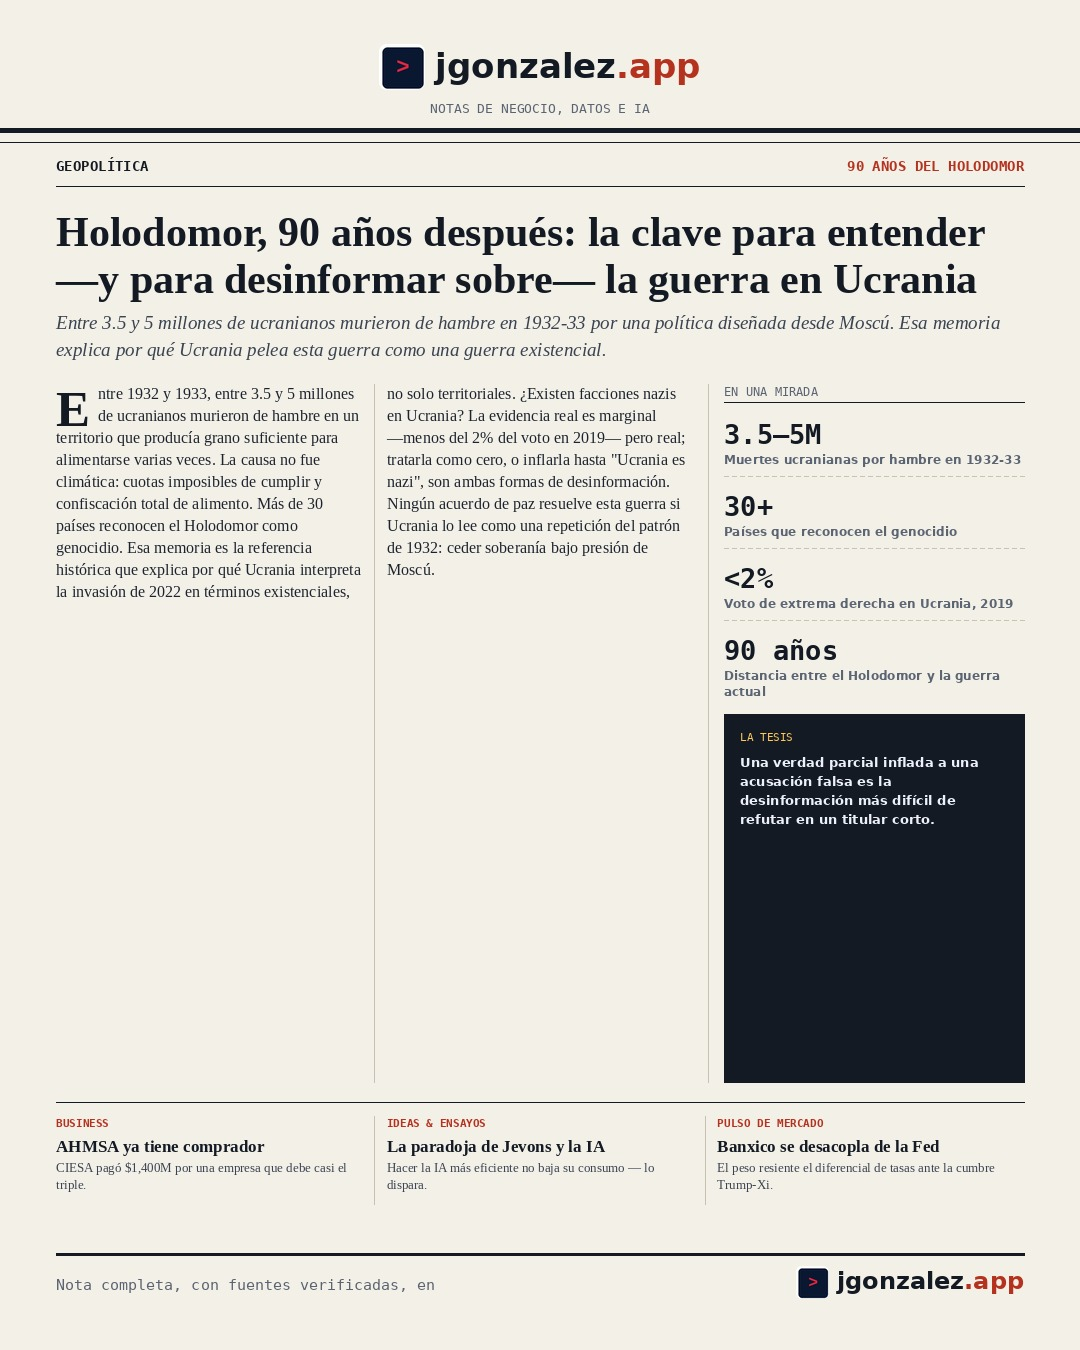
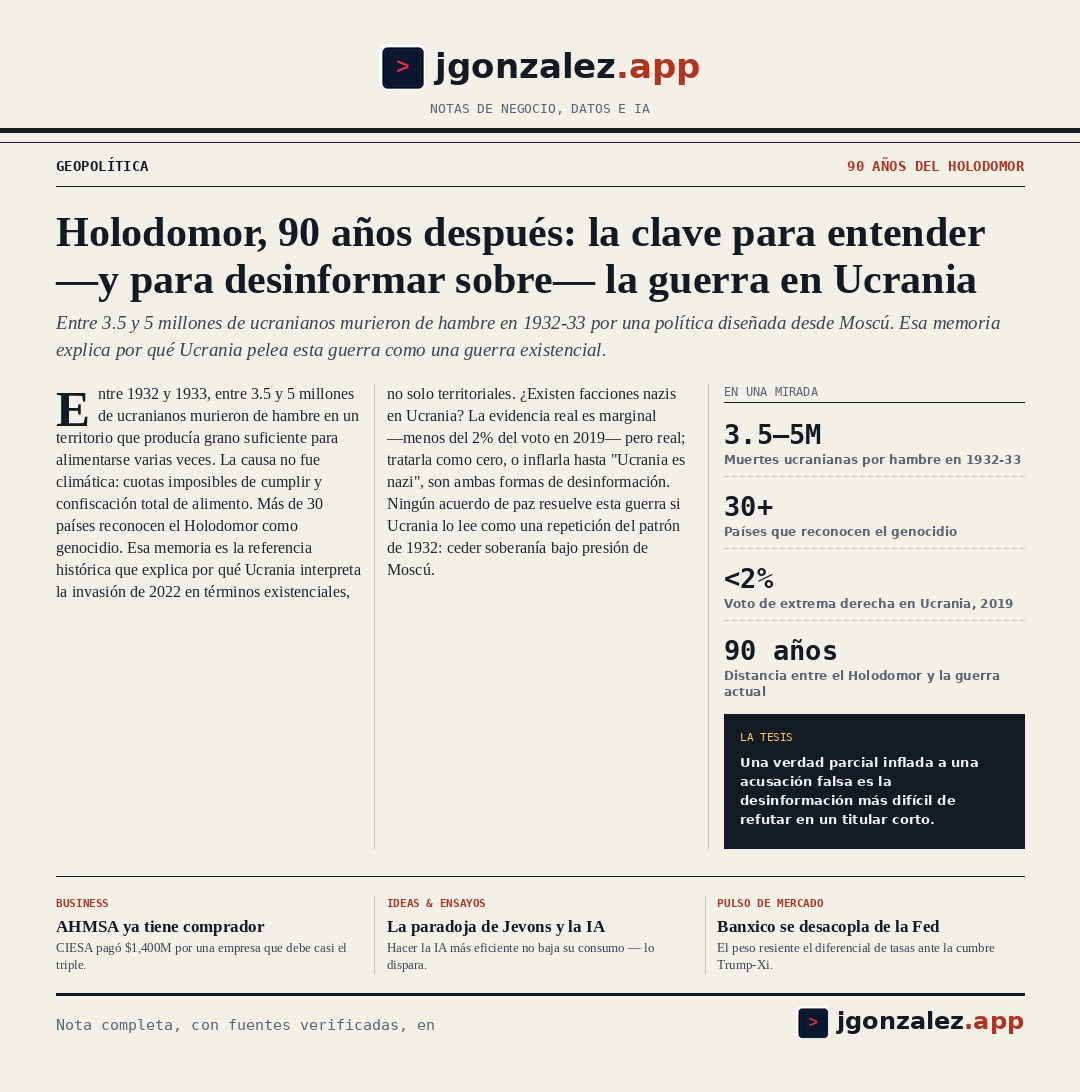
Ajusta la tarjeta social para recortarse al contenido real (sin espacio en blanco de más)
Claude-Session: https://claude.ai/code/session_01Hy1irsgxb8SxM6AaqhiYV5

Changed region(s): [[0.0, 0.0311, 1.0, 0.9652]]

diff --git a/scripts/social_card.py b/scripts/social_card.py
@@ -2,9 +2,8 @@
 """
 Genera la tarjeta social (Facebook/Instagram) de una nota: réplica del
 diseño de "portada de diario" de dos columnas + sidebar de datos, con el
-logo de jgonzalez.app. Reemplaza la plantilla anterior (portada + resumen
-en el caption): ahora la imagen lleva toda la información y el caption
-del post solo trae el link.
+logo de jgonzalez.app. El alto de la imagen se ajusta al contenido real
+(nunca deja espacio en blanco de más al final).
 
 Uso (todo por stdin, JSON, para no pelear con el escapado de shell):
   echo '{...}' | python3 scripts/social_card.py --out ruta.jpg
@@ -25,7 +24,8 @@ import sys
 import json
 from PIL import Image, ImageDraw, ImageFont
 
-ANCHO, ALTO = 1080, 1350
+ANCHO = 1080
+ALTO_MAX = 2000  # lienzo de trabajo; se recorta al contenido real al final
 CREMA = (243, 240, 232)
 TINTA = (20, 26, 36)
 GRIS = (91, 100, 114)
@@ -61,7 +61,6 @@ def envolver(draw, texto, fuente, ancho_max):
 
 
 def dibujar_logo(draw, img, x, y, escala=1.0):
-    """Dibuja icono + 'jgonzalez.app' con la punta izquierda en (x,y). Regresa el ancho total."""
     tam_icono = int(46 * escala)
     tam_fuente = int(34 * escala)
     f_word = ImageFont.truetype(F_SANS_BOLD, tam_fuente)
@@ -97,7 +96,7 @@ def generar(datos_nota, salida):
     tesis = datos_nota.get("tesis", "")
     otras = datos_nota.get("otras", [])[:3]
 
-    img = Image.new("RGB", (ANCHO, ALTO), CREMA)
+    img = Image.new("RGB", (ANCHO, ALTO_MAX), CREMA)
     draw = ImageDraw.Draw(img)
     margen = 56
 
@@ -179,8 +178,6 @@ def generar(datos_nota, salida):
                 draw.line((sidebar_x + dx, sy, sidebar_x + dx + 4, sy), fill=LINEA, width=1)
             sy += 14
 
-    # tesis: caja oscura que llena el resto del sidebar hasta donde termine el cuerpo (calculado luego)
-
     # ---- cuerpo en dos sub-columnas con letra capital ----
     f_cuerpo = ImageFont.truetype(F_SERIF_REG, 16)
     interlinea = 22
@@ -190,12 +187,9 @@ def generar(datos_nota, salida):
     resto_primera = palabras[0][1:] if palabras else ""
     texto_sin_capital = " ".join([resto_primera] + palabras[1:]) if palabras else ""
 
-    # letra capital: ocupa ~2 líneas de alto
     f_cap = ImageFont.truetype(F_SERIF_BLACK, int(interlinea * 2.35))
     cap_w = draw.textlength(primera_letra, font=f_cap) + 8
 
-    # arma todas las líneas del cuerpo respetando el hueco de la letra capital
-    # en las primeras 2 líneas de la primera sub-columna.
     def envolver_con_hueco(texto, ancho_normal, ancho_reducido, n_reducidas):
         palabras = texto.split()
         lineas, actual = [], ""
@@ -214,19 +208,13 @@ def generar(datos_nota, salida):
             lineas.append(actual)
         return lineas
 
-    pie_franja_y = ALTO - 130
-    otras_h = 118 if otras else 0
-    limite_cuerpo_y = pie_franja_y - otras_h - 20
-
     todas_lineas = envolver_con_hueco(texto_sin_capital, sub_w, sub_w - cap_w, 2)
-    # reparte en dos sub-columnas por mitad de líneas (como column-count:2),
-    # nunca más de lo que cabe verticalmente antes de la franja de abajo.
-    max_por_col = max(6, int((limite_cuerpo_y - body_top) / interlinea))
-    mitad = min(-(-len(todas_lineas) // 2), max_por_col)  # ceil, acotado
+    # reparte en dos sub-columnas por mitad de líneas (como column-count:2) —
+    # sin límite artificial: el lienzo se recorta al contenido real al final.
+    mitad = -(-len(todas_lineas) // 2)  # ceil
     colA = todas_lineas[:mitad]
-    colB = todas_lineas[mitad:mitad + max_por_col]
+    colB = todas_lineas[mitad:]
 
-    # columna A, con letra capital sobrepuesta en la esquina
     cx, cy = margen, body_top
     draw.text((cx, cy - 4), primera_letra, font=f_cap, fill=TINTA)
     for i, linea in enumerate(colA):
@@ -240,39 +228,45 @@ def generar(datos_nota, salida):
         cy2 += interlinea
 
     cuerpo_fin_y = max(cy, cy2)
-    limite_visual = max(limite_cuerpo_y, cuerpo_fin_y)
 
-    # divisor vertical entre sub-columnas
-    div2_x = margen + sub_w + sub_gap / 2
-    draw.line((div2_x, body_top, div2_x, limite_visual), fill=LINEA, width=1)
-
-    # divisor vertical principal, entre cuerpo y sidebar
-    draw.line((divisor_x, body_top, divisor_x, limite_visual), fill=LINEA, width=1)
-
-    # ---- caja de tesis: llena el resto del sidebar hasta la franja de abajo ----
+    # ---- caja de tesis: alto ajustado a su propio texto, no estirada ----
+    caja_y1 = sy
     if tesis:
         caja_y0 = sy + 6
-        caja_y1 = max(limite_cuerpo_y, caja_y0 + 90)
+        f_te = ImageFont.truetype(F_SANS_BOLD, 13)
+        lineas_te = envolver(draw, tesis, f_te, sidebar_w - 32)
+        alto_texto_te = len(lineas_te) * 19
+        caja_alto = 40 + alto_texto_te + 18
+        caja_y1 = caja_y0 + caja_alto
         draw.rectangle((sidebar_x, caja_y0, ANCHO - margen, caja_y1), fill=TINTA)
         f_tk = ImageFont.truetype(F_MONO, 11)
         draw.text((sidebar_x + 16, caja_y0 + 16), "LA TESIS", font=f_tk, fill=(255, 200, 90))
-        f_te = ImageFont.truetype(F_SANS_BOLD, 13)
         ty = caja_y0 + 40
-        for linea in envolver(draw, tesis, f_te, sidebar_w - 32):
+        for linea in lineas_te:
             draw.text((sidebar_x + 16, ty), linea, font=f_te, fill=(237, 242, 250))
             ty += 19
 
+    contenido_fin_y = max(cuerpo_fin_y, caja_y1)
+
+    # divisores verticales, solo hasta donde llega el contenido real
+    div2_x = margen + sub_w + sub_gap / 2
+    draw.line((div2_x, body_top, div2_x, contenido_fin_y), fill=LINEA, width=1)
+    draw.line((divisor_x, body_top, divisor_x, contenido_fin_y), fill=LINEA, width=1)
+
+    y = contenido_fin_y + 28
+
     # ---- franja de otras notas ----
     if otras:
-        fy = pie_franja_y - otras_h + 14
-        draw.line((margen, fy - 14, ANCHO - margen, fy - 14), fill=TINTA, width=1)
+        draw.line((margen, y, ANCHO - margen, y), fill=TINTA, width=1)
+        y += 20
         col_w = (ancho_texto - 24 * (len(otras) - 1)) / len(otras)
         f_ok = ImageFont.truetype(F_MONO_BOLD, 11)
         f_ot = ImageFont.truetype(F_SERIF_BOLD, 17)
         f_od = ImageFont.truetype(F_SERIF_REG, 13)
+        max_oy = y
         for i, item in enumerate(otras):
             ox = margen + i * (col_w + 24)
-            oy = fy
+            oy = y
             draw.text((ox, oy), item.get("kicker", "").upper(), font=f_ok, fill=ROJO)
             oy += 20
             for linea in envolver(draw, item.get("titulo", ""), f_ot, col_w)[:2]:
@@ -282,19 +276,24 @@ def generar(datos_nota, salida):
             for linea in envolver(draw, item.get("desc", ""), f_od, col_w)[:2]:
                 draw.text((ox, oy), linea, font=f_od, fill=(58, 67, 81))
                 oy += 17
+            max_oy = max(max_oy, oy)
             if i < len(otras) - 1:
-                draw.line((ox + col_w + 12, fy, ox + col_w + 12, fy + otras_h - 30), fill=LINEA, width=1)
+                draw.line((ox + col_w + 12, y, ox + col_w + 12, max_oy), fill=LINEA, width=1)
+        y = max_oy + 20
 
     # ---- pie ----
-    pie_y = ALTO - 96
-    draw.line((margen, pie_y, ANCHO - margen, pie_y), fill=TINTA, width=3)
+    draw.line((margen, y, ANCHO - margen, y), fill=TINTA, width=3)
+    y += 22
     f_pie = ImageFont.truetype(F_MONO, 15)
-    draw.text((margen, pie_y + 22), "Nota completa, con fuentes verificadas, en", font=f_pie, fill=GRIS)
+    draw.text((margen, y), "Nota completa, con fuentes verificadas, en", font=f_pie, fill=GRIS)
     aw2 = ancho_logo(draw, escala=0.72)
-    dibujar_logo(draw, img, ANCHO - margen - aw2, pie_y + 12, escala=0.72)
+    dibujar_logo(draw, img, ANCHO - margen - aw2, y - 10, escala=0.72)
+    y += 46
 
+    alto_final = y + 30
+    img = img.crop((0, 0, ANCHO, alto_final))
     img.save(salida, quality=92)
-    print(f"OK: {salida}")
+    print(f"OK: {salida} ({alto_final}px alto)")
 
 
 if __name__ == "__main__":
